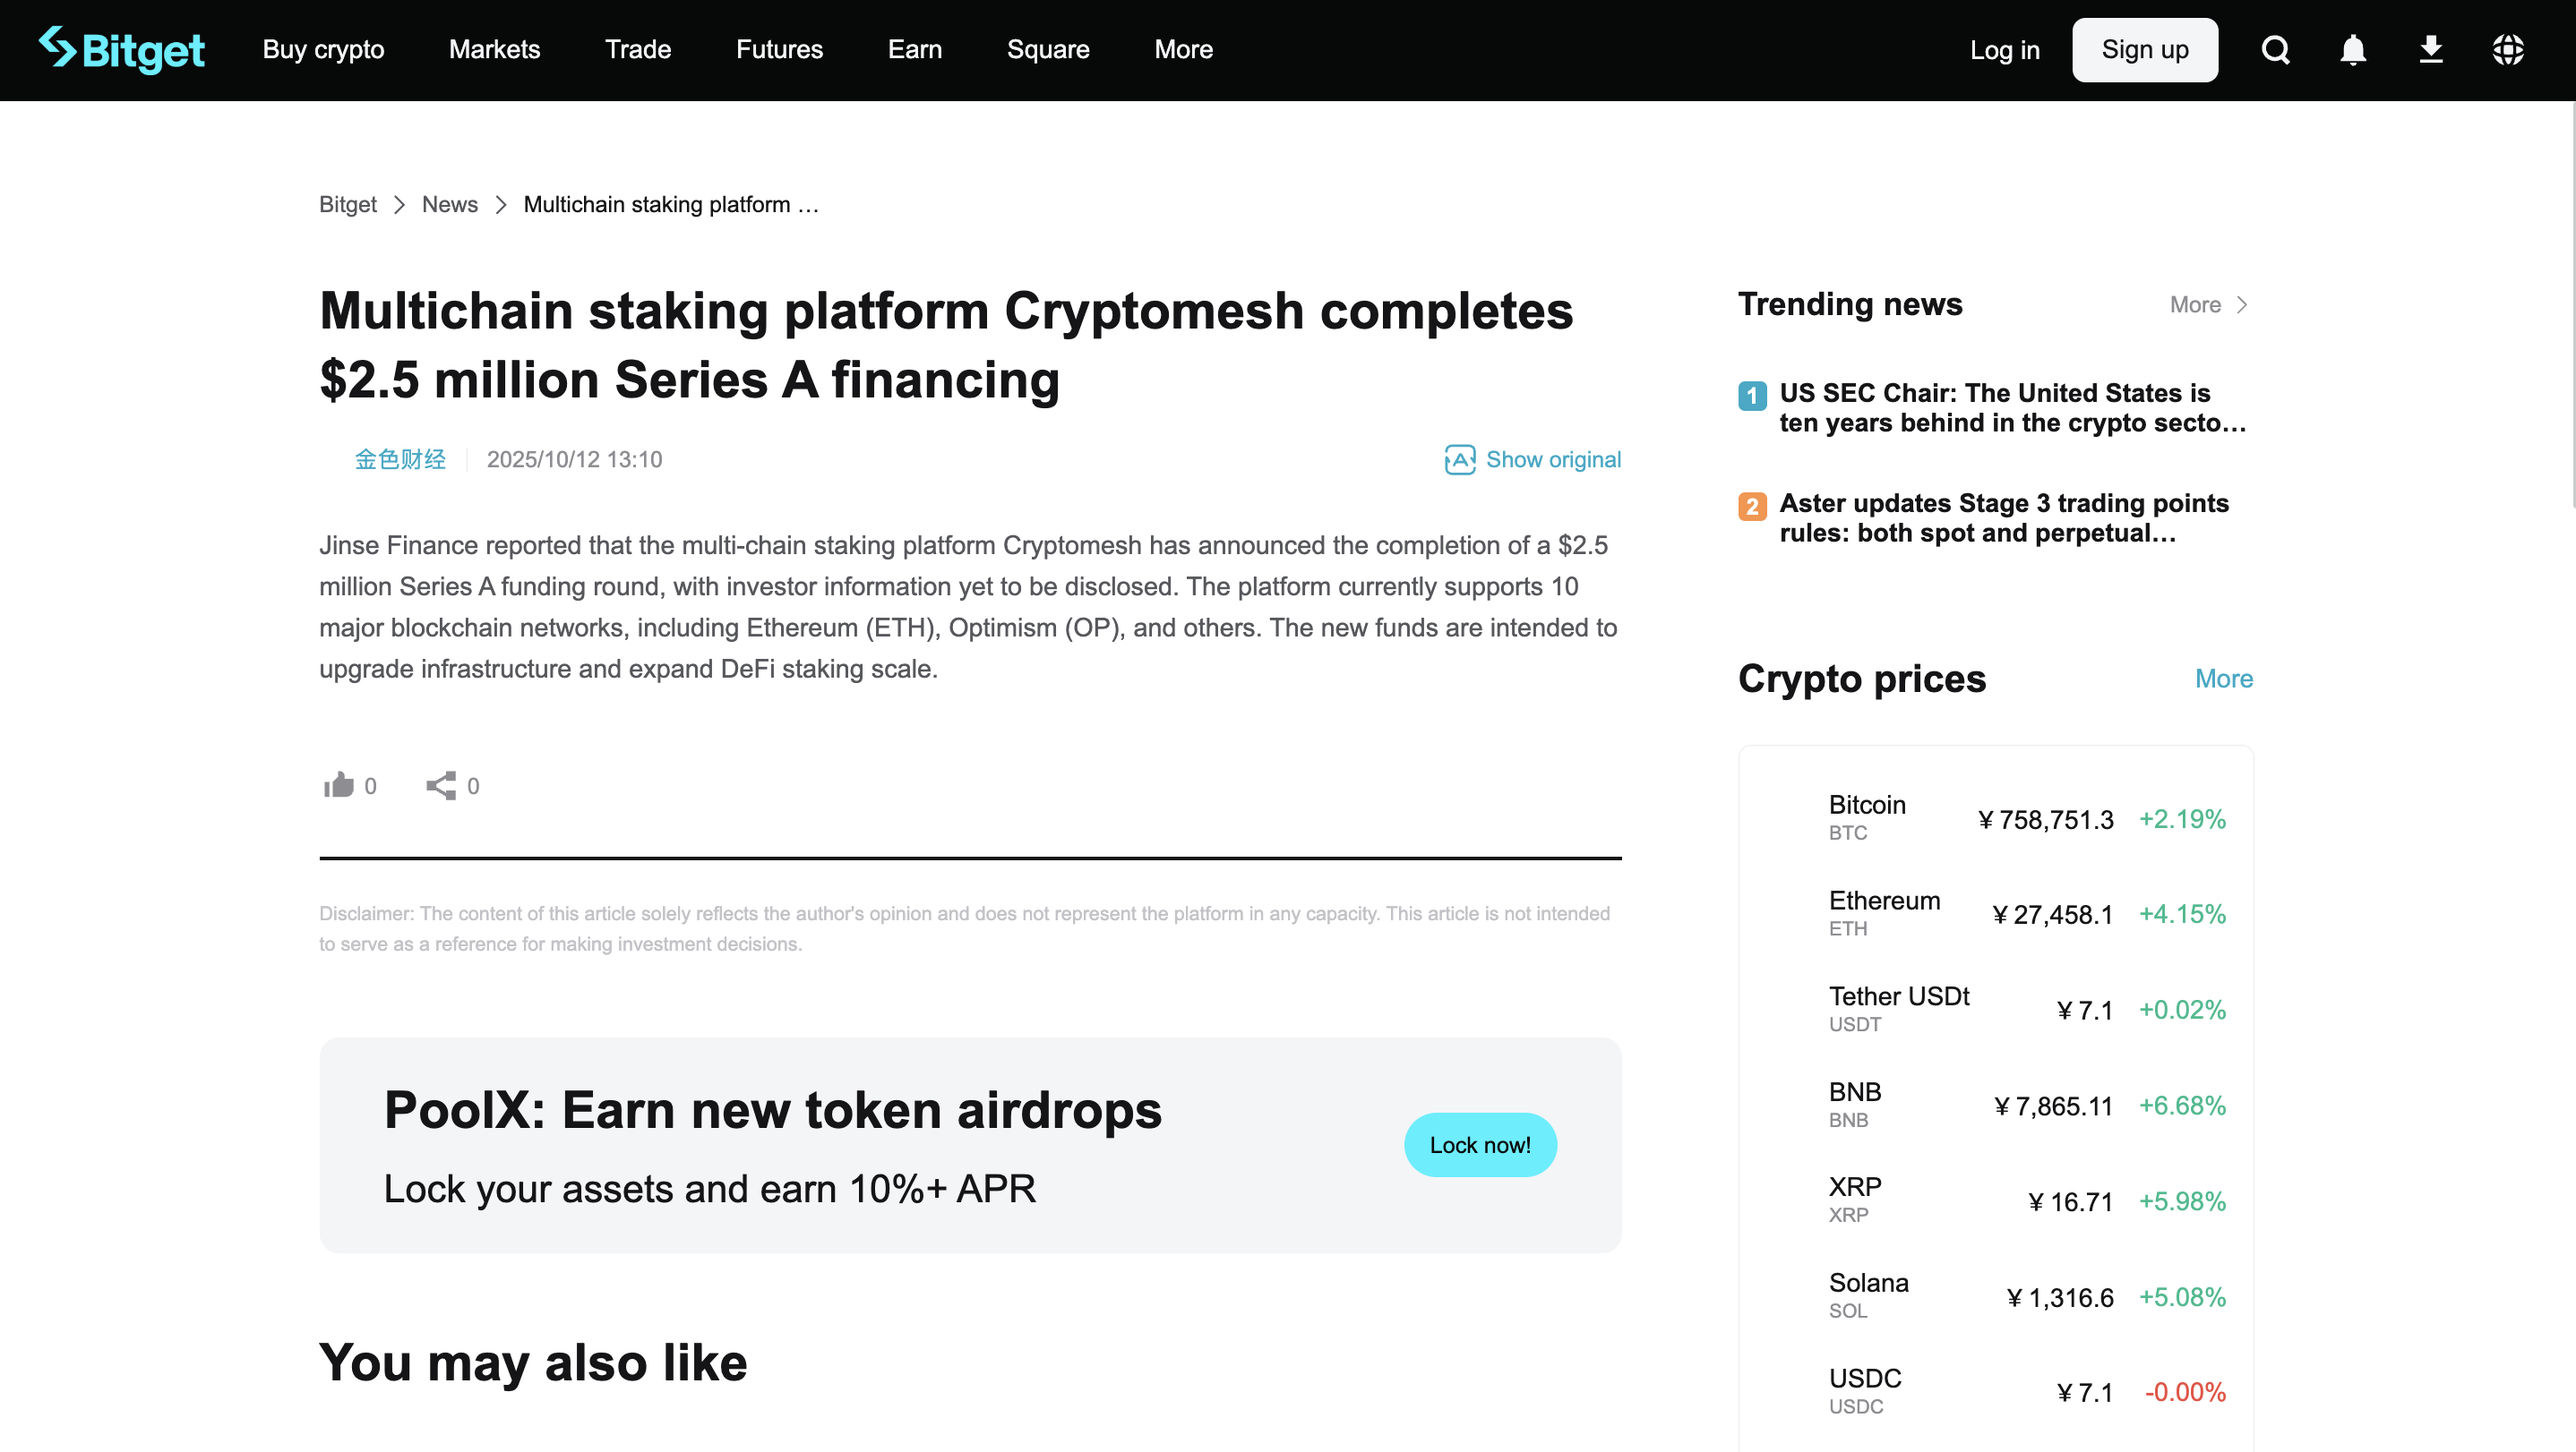
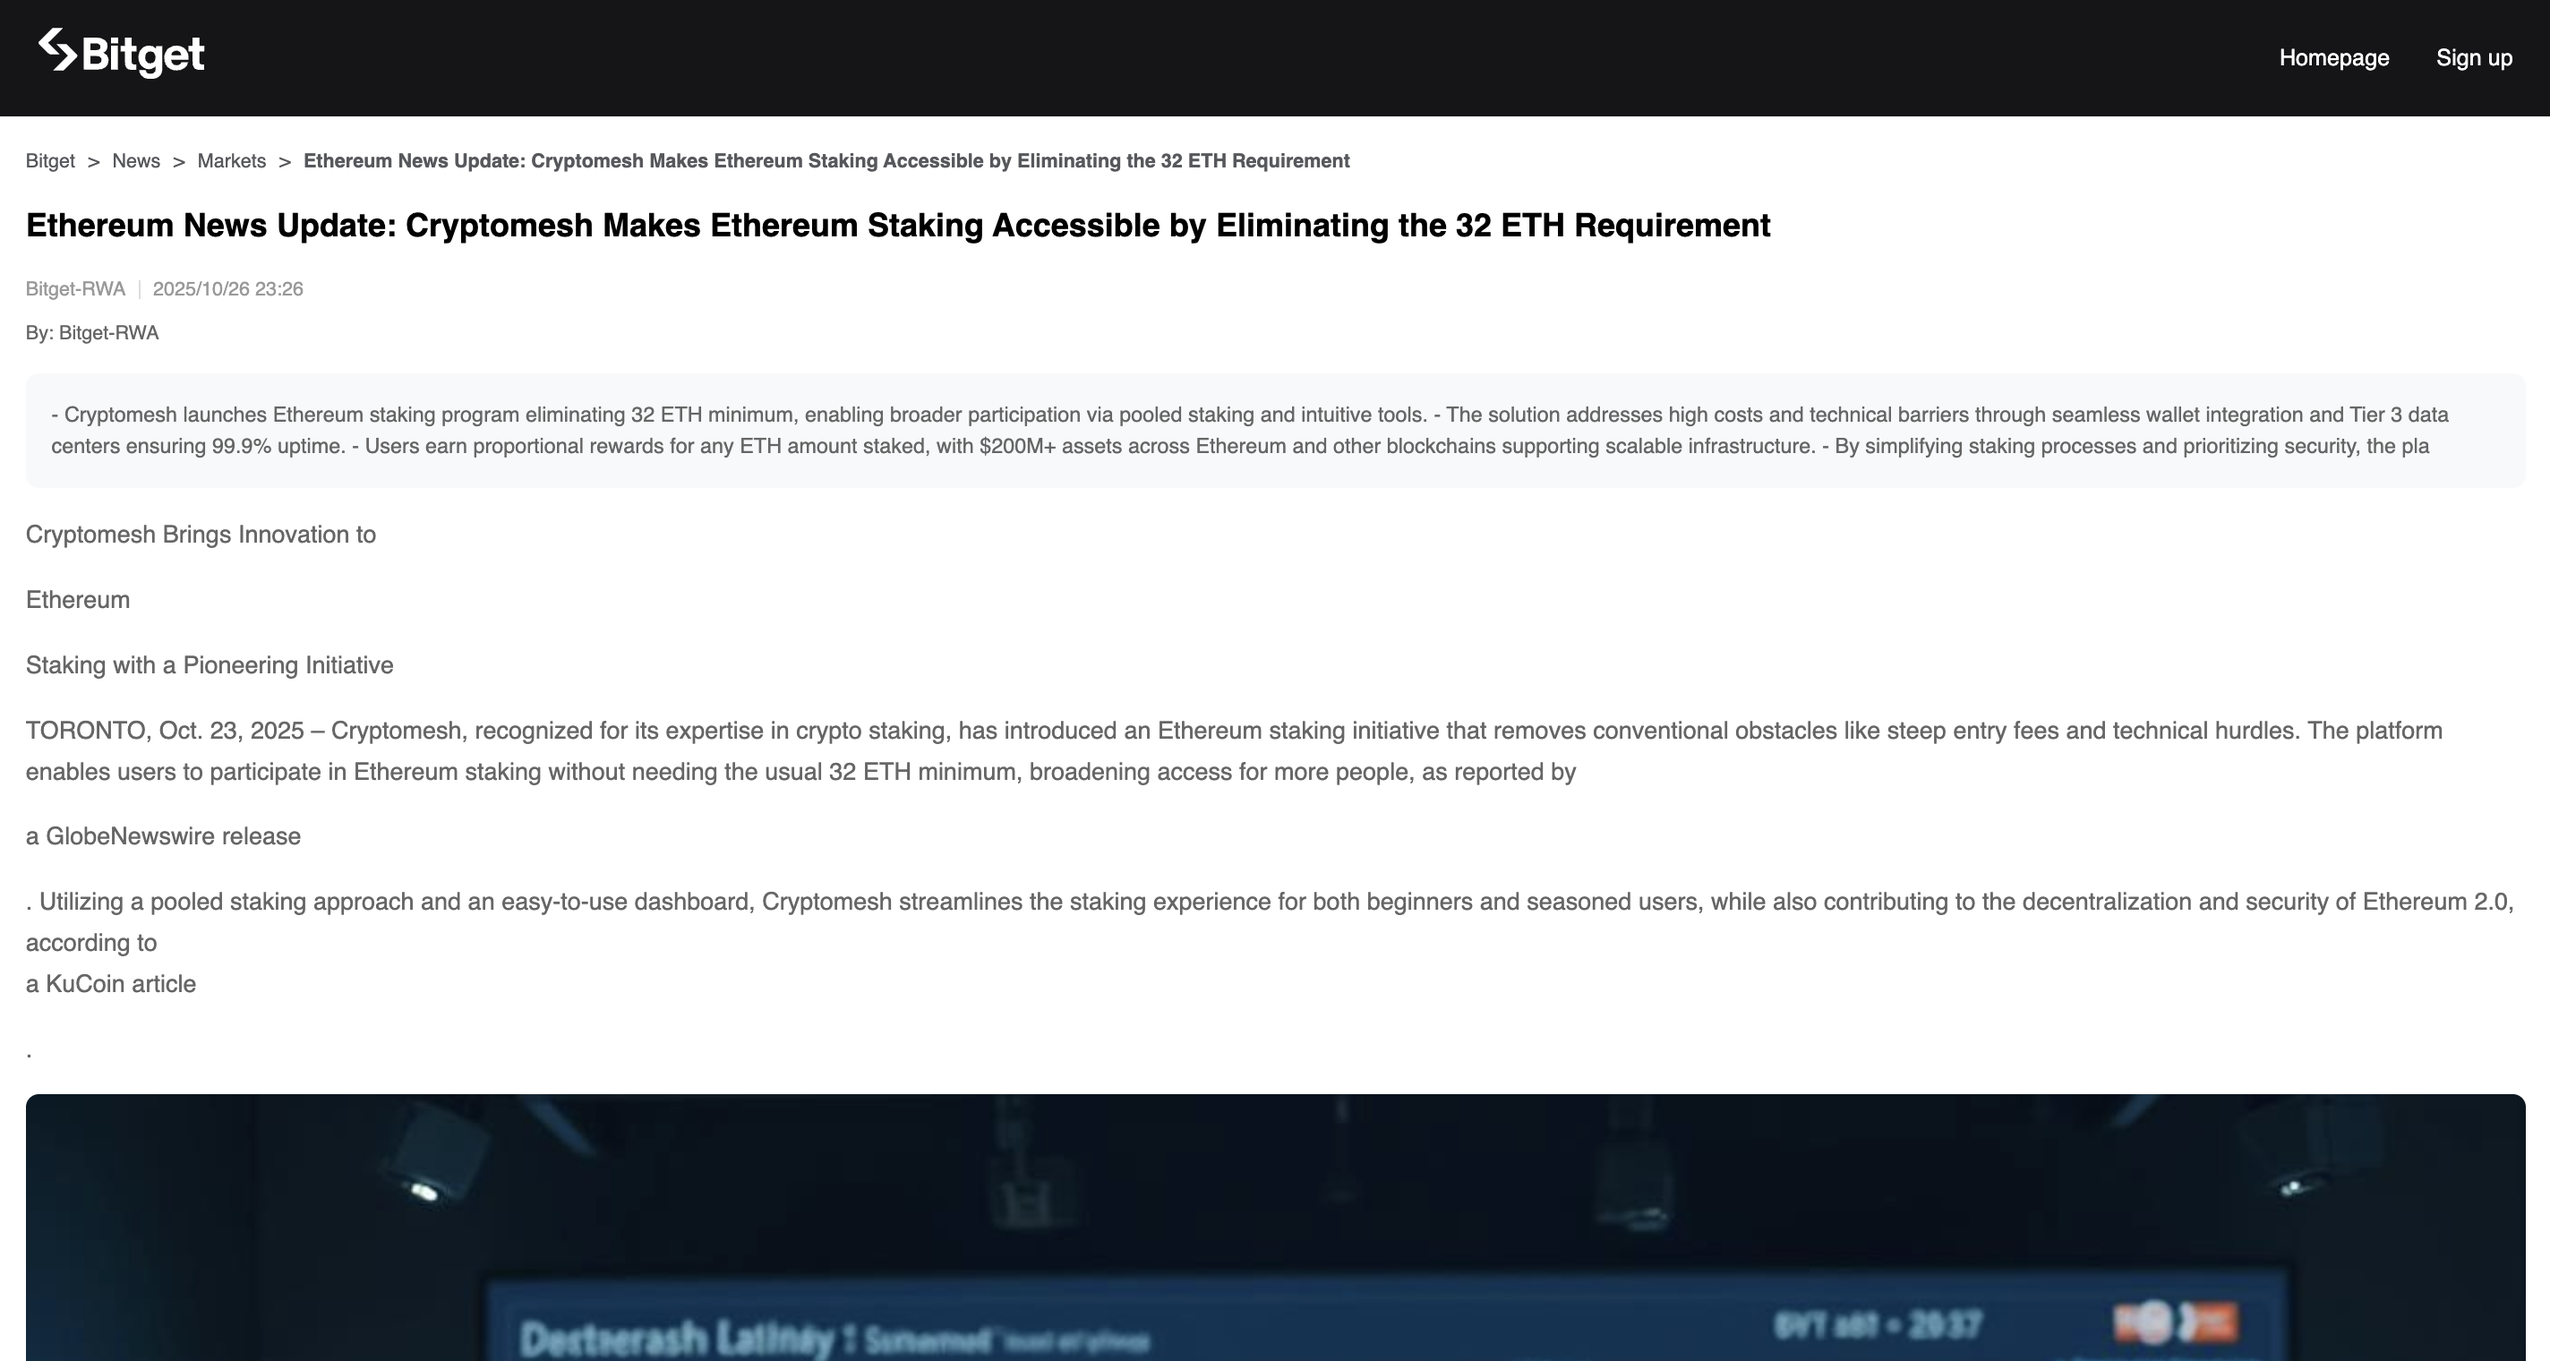
updTE

diff --git a/src/components/NewsHome/NewsHome.tsx b/src/components/NewsHome/NewsHome.tsx
@@ -23,13 +23,13 @@ export const NewsHome = (): JSX.Element => {
       desc: "Cryptomesh is leading the way in decentralized finance (DeFi) staking, becoming a preferred platform for secure and high-yield staking solutions worldwide. With multi-chain support, advanced technology, and a smooth user experience, Cryptomesh is redefining what users can expect from a staking platform.",
       icon: img4,
       link: "https://coinmarketcap.com/community/articles/68eb68164355c11ecf50866e/",
-      source: 'CoinMarketCap',
+      source: "CoinMarketCap",
     },
     {
       title: "Cryptomesh Secures $2.5 Million in Seed Funding to Transform DeFi Staking and Drive Global Growth",
       desc: "Cryptomesh, an emerging leader in decentralized finance (DeFi), has successfully raised $2.5 million in seed funding, showcasing strong investor confidence in its mission to redefine the DeFi staking landscape. This funding will enable Cryptomesh to accelerate global expansion, enhance its platform, and introduce cutting-edge solutions for the DeFi ecosystem.",
       link: "https://www.binance.com/en/square/post/30914228790330?_ul=aHR0cHM6Ly9hcHAuYmluYW5jZS5jb20vdW5pLXFyL2NhcnQvMzA5MTQyMjg3OTAzMzA_dWNvPWNaZlJtVWZ2dlBNczliRTAtRUtST1EmdWM9YXBwX3NxdWFyZV9zaGFyZV9saW5rJnVzPWNvcHlsaW5rJnI9TWFjaCZsPWVu&ref=Mach&utm_campaign=app_square_share_link&utm_content=cZfRmUfvvPMs9bE0-EKROQ&utm_source=copylink",
-      source: 'Binance',
+      source: "Binance",
       icon: img3,
     },
     {
@@ -37,14 +37,14 @@ export const NewsHome = (): JSX.Element => {
       desc: "OKX - Discover how Cryptomesh's $2.5M funding is transforming DeFi staking with innovative solutions, enhancing rewards and reshaping the decentralized finance landscape.",
       icon: img2,
       link: "https://www.okx.com/learn/cryptomesh-funding-defi-staking",
-      source: 'OKX',
+      source: "OKX",
     },
     {
-      title: "Multichain staking platform Cryptomesh completes $2.5 million Series A financing",
-      desc: "Jinse Finance reported that the multi-chain staking platform Cryptomesh has announced the completion of a $2.5 million Series A funding round, with investor information yet to be disclosed. The platform currently supports 10 major blockchain networks, including Ethereum (ETH), Optimism (OP), and others. The new funds are intended to upgrade infrastructure and expand DeFi staking scale.",
+      title: "Ethereum News Update: Cryptomesh Makes Ethereum Staking Accessible by Eliminating the 32 ETH Requirement",
+      desc: "Cryptomesh launches Ethereum staking program eliminating 32 ETH minimum, enabling broader participation via pooled staking and intuitive tools. - The solution addresses high costs and technical barriers through seamless wallet integration and Tier 3 data centers ensuring 99.9% uptime. - Users earn proportional rewards for any ETH amount staked, with $200M+ assets across Ethereum and other blockchains supporting scalable infrastructure.",
       icon: img5,
-      link: "https://www.bitget.com/news/detail/12560605011201",
-      source: 'Bitget',
+      link: "https://www.bitget.com/amp/news/detail/12560605032080",
+      source: "Bitget",
     },
   ]
   return (
